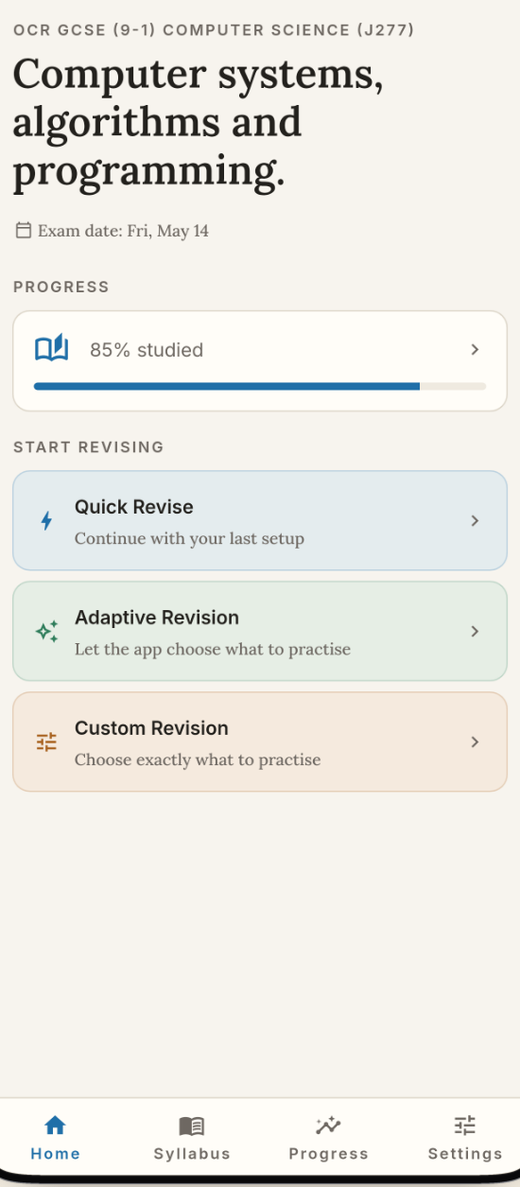
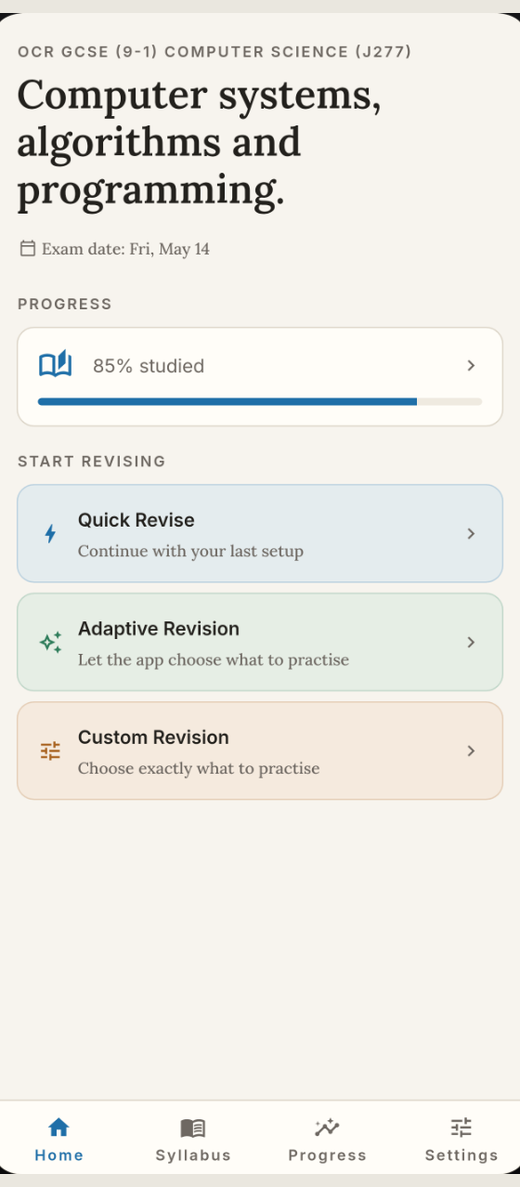
Publish from revision-app@ad3f5184f0cafb6739ec852d52f31ec26d3aa5bb

diff --git a/index.html b/index.html
@@ -30,7 +30,7 @@
 
   <link rel="preload" href="/assets/fonts/Inter.woff2" as="font" type="font/woff2" crossorigin>
   <link rel="preload" href="/assets/fonts/Lora.woff2" as="font" type="font/woff2" crossorigin>
-  <link rel="stylesheet" href="/assets/style.css?v=1703d4db">
+  <link rel="stylesheet" href="/assets/style.css?v=56824261">
   <link rel="icon" href="/favicon.ico" sizes="any">
   <link rel="icon" type="image/png" href="/assets/favicon-32.png" sizes="32x32">
   <link rel="apple-touch-icon" href="/assets/apple-touch-icon.png">
@@ -64,8 +64,8 @@
       <p class="hero-proof">No accounts · No analytics · Works offline · One payment</p>
     </div>
     <div class="hero-mark" aria-hidden="true">
-      <img class="hero-app-primary" src="/assets/icons/wset2.png?v=1703d4db" alt="" width="250" height="250">
-      <img class="hero-app-secondary" src="/assets/icons/j277.png?v=1703d4db" alt="" width="150" height="150">
+      <img class="hero-app-primary" src="/assets/icons/wset2.png?v=56824261" alt="" width="250" height="250">
+      <img class="hero-app-secondary" src="/assets/icons/j277.png?v=56824261" alt="" width="150" height="150">
     </div>
   </div>
 </section>
@@ -86,8 +86,7 @@
     <div class="app-grid">
 <article class="app">
   <div class="app-shot">
-    <img src="/assets/screenshots/wset2-home.png?v=1703d4db" alt="Screenshot of WSET Level 2 Wines" width="520" height="1035" loading="lazy">
-    <img class="app-logo" src="/assets/icons/wset2.png?v=1703d4db" alt="" width="64" height="64">
+    <img src="/assets/screenshots/wset2-home.png?v=56824261" alt="Screenshot of WSET Level 2 Wines" width="520" height="1187" loading="lazy">
   </div>
   <div class="app-copy">
     <h3 class="app-name"><a href="/wset2/">WSET Level 2 Wines</a></h3>
@@ -101,7 +100,7 @@
     <p class="app-disclaimer">An independent study aid. Not affiliated with, endorsed by or approved by WSET.</p>
     <div class="app-badges">
         <a class="app-badge play" href="https://play.google.com/store/apps/details?id=uk.co.thebillington.wset2" rel="noopener">
-          <img src="/assets/badges/google-play.png?v=1703d4db" alt="Get WSET Level 2 Wines on Google Play" height="60">
+          <img src="/assets/badges/google-play.png?v=56824261" alt="Get WSET Level 2 Wines on Google Play" height="60">
         </a>
     </div>
     <p class="app-more"><a href="/wset2/">See the full course <span aria-hidden="true">→</span></a></p>
@@ -110,8 +109,7 @@
 
 <article class="app">
   <div class="app-shot">
-    <img src="/assets/screenshots/j277-home.png?v=1703d4db" alt="Screenshot of OCR J277 GCSE Computer Science" width="520" height="1187" loading="lazy">
-    <img class="app-logo" src="/assets/icons/j277.png?v=1703d4db" alt="" width="64" height="64">
+    <img src="/assets/screenshots/j277-home.png?v=56824261" alt="Screenshot of OCR J277 GCSE Computer Science" width="520" height="1187" loading="lazy">
   </div>
   <div class="app-copy">
     <h3 class="app-name"><a href="/gcse-computer-science/">OCR J277 GCSE Computer Science</a></h3>

diff --git a/wset2/index.html b/wset2/index.html
@@ -30,7 +30,7 @@
 
   <link rel="preload" href="/assets/fonts/Inter.woff2" as="font" type="font/woff2" crossorigin>
   <link rel="preload" href="/assets/fonts/Lora.woff2" as="font" type="font/woff2" crossorigin>
-  <link rel="stylesheet" href="/assets/style.css?v=1703d4db">
+  <link rel="stylesheet" href="/assets/style.css?v=56824261">
   <link rel="icon" href="/favicon.ico" sizes="any">
   <link rel="icon" type="image/png" href="/assets/favicon-32.png" sizes="32x32">
   <link rel="apple-touch-icon" href="/assets/apple-touch-icon.png">
@@ -70,14 +70,13 @@
       <p class="product-intro">The whole WSET Level 2 syllabus in one offline app: 82 learning objectives, 374 flashcards and 466 exam-style questions, with an explanation behind every answer. Work through the course in order, or let the app find the gaps.</p>
       <div class="product-actions">
         <a class="app-badge play" href="https://play.google.com/store/apps/details?id=uk.co.thebillington.wset2" rel="noopener">
-          <img src="/assets/badges/google-play.png?v=1703d4db" alt="Get WSET Level 2 Wines on Google Play" height="60">
+          <img src="/assets/badges/google-play.png?v=56824261" alt="Get WSET Level 2 Wines on Google Play" height="60">
         </a>
       </div>
       <p class="product-proof">No account · No ads · Works offline · One payment</p>
     </div>
     <div class="product-mark">
-      <img class="product-shot" src="/assets/screenshots/wset2-home.png?v=1703d4db" alt="Screenshot of WSET Level 2 Wines" width="520" height="1035">
-      <img class="product-icon" src="/assets/icons/wset2.png?v=1703d4db" alt="" width="76" height="76">
+      <img class="product-shot" src="/assets/screenshots/wset2-home.png?v=56824261" alt="Screenshot of WSET Level 2 Wines" width="520" height="1187">
     </div>
   </header>
 
@@ -350,7 +349,7 @@
     </div>
     <div class="product-actions">
         <a class="app-badge play" href="https://play.google.com/store/apps/details?id=uk.co.thebillington.wset2" rel="noopener">
-          <img src="/assets/badges/google-play.png?v=1703d4db" alt="Get WSET Level 2 Wines on Google Play" height="60">
+          <img src="/assets/badges/google-play.png?v=56824261" alt="Get WSET Level 2 Wines on Google Play" height="60">
         </a>
     </div>
   </section>

diff --git a/gcse-computer-science/index.html b/gcse-computer-science/index.html
@@ -30,7 +30,7 @@
 
   <link rel="preload" href="/assets/fonts/Inter.woff2" as="font" type="font/woff2" crossorigin>
   <link rel="preload" href="/assets/fonts/Lora.woff2" as="font" type="font/woff2" crossorigin>
-  <link rel="stylesheet" href="/assets/style.css?v=1703d4db">
+  <link rel="stylesheet" href="/assets/style.css?v=56824261">
   <link rel="icon" href="/favicon.ico" sizes="any">
   <link rel="icon" type="image/png" href="/assets/favicon-32.png" sizes="32x32">
   <link rel="apple-touch-icon" href="/assets/apple-touch-icon.png">
@@ -74,8 +74,7 @@
       <p class="product-proof">No account · No ads · Works offline · One payment</p>
     </div>
     <div class="product-mark">
-      <img class="product-shot" src="/assets/screenshots/j277-home.png?v=1703d4db" alt="Screenshot of OCR J277 GCSE Computer Science" width="520" height="1187">
-      <img class="product-icon" src="/assets/icons/j277.png?v=1703d4db" alt="" width="76" height="76">
+      <img class="product-shot" src="/assets/screenshots/j277-home.png?v=56824261" alt="Screenshot of OCR J277 GCSE Computer Science" width="520" height="1187">
     </div>
   </header>
 

diff --git a/support/index.html b/support/index.html
@@ -30,7 +30,7 @@
 
   <link rel="preload" href="/assets/fonts/Inter.woff2" as="font" type="font/woff2" crossorigin>
   <link rel="preload" href="/assets/fonts/Lora.woff2" as="font" type="font/woff2" crossorigin>
-  <link rel="stylesheet" href="/assets/style.css?v=1703d4db">
+  <link rel="stylesheet" href="/assets/style.css?v=56824261">
   <link rel="icon" href="/favicon.ico" sizes="any">
   <link rel="icon" type="image/png" href="/assets/favicon-32.png" sizes="32x32">
   <link rel="apple-touch-icon" href="/assets/apple-touch-icon.png">
@@ -167,7 +167,7 @@
     <p>Use the form on this page. Every message becomes a ticket in our tracker, so nothing gets lost. Tell us what you expected and what happened instead.</p>
   </div>
 </article>
-<script src="/assets/support.js?v=1703d4db" defer></script>
+<script src="/assets/support.js?v=56824261" defer></script>
 
   </main>
 

diff --git a/assets/style.css b/assets/style.css
@@ -319,16 +319,6 @@ a { color: var(--brand); }
   border: 1px solid var(--line);
 }
 
-.app-shot img.app-logo {
-  position: absolute;
-  bottom: -18px;
-  left: -18px;
-  width: 64px;
-  height: 64px;
-  border-radius: 16px;
-  border: 3px solid var(--paper);
-  box-shadow: 0 10px 24px rgba(4, 20, 45, .3);
-}
 
 .app-name {
   margin: 0 0 4px;
@@ -548,11 +538,6 @@ a { color: var(--brand); }
   box-shadow: 0 10px 24px rgba(4, 20, 45, .3);
 }
 
-.product-mark .product-icon {
-  position: absolute;
-  bottom: -20px;
-  left: -20px;
-}
 
 .product-facts {
   padding: 0 0 8px;

diff --git a/404.html b/404.html
@@ -30,7 +30,7 @@
 
   <link rel="preload" href="/assets/fonts/Inter.woff2" as="font" type="font/woff2" crossorigin>
   <link rel="preload" href="/assets/fonts/Lora.woff2" as="font" type="font/woff2" crossorigin>
-  <link rel="stylesheet" href="/assets/style.css?v=1703d4db">
+  <link rel="stylesheet" href="/assets/style.css?v=56824261">
   <link rel="icon" href="/favicon.ico" sizes="any">
   <link rel="icon" type="image/png" href="/assets/favicon-32.png" sizes="32x32">
   <link rel="apple-touch-icon" href="/assets/apple-touch-icon.png">

diff --git a/privacy/index.html b/privacy/index.html
@@ -30,7 +30,7 @@
 
   <link rel="preload" href="/assets/fonts/Inter.woff2" as="font" type="font/woff2" crossorigin>
   <link rel="preload" href="/assets/fonts/Lora.woff2" as="font" type="font/woff2" crossorigin>
-  <link rel="stylesheet" href="/assets/style.css?v=1703d4db">
+  <link rel="stylesheet" href="/assets/style.css?v=56824261">
   <link rel="icon" href="/favicon.ico" sizes="any">
   <link rel="icon" type="image/png" href="/assets/favicon-32.png" sizes="32x32">
   <link rel="apple-touch-icon" href="/assets/apple-touch-icon.png">

diff --git a/terms/index.html b/terms/index.html
@@ -30,7 +30,7 @@
 
   <link rel="preload" href="/assets/fonts/Inter.woff2" as="font" type="font/woff2" crossorigin>
   <link rel="preload" href="/assets/fonts/Lora.woff2" as="font" type="font/woff2" crossorigin>
-  <link rel="stylesheet" href="/assets/style.css?v=1703d4db">
+  <link rel="stylesheet" href="/assets/style.css?v=56824261">
   <link rel="icon" href="/favicon.ico" sizes="any">
   <link rel="icon" type="image/png" href="/assets/favicon-32.png" sizes="32x32">
   <link rel="apple-touch-icon" href="/assets/apple-touch-icon.png">
